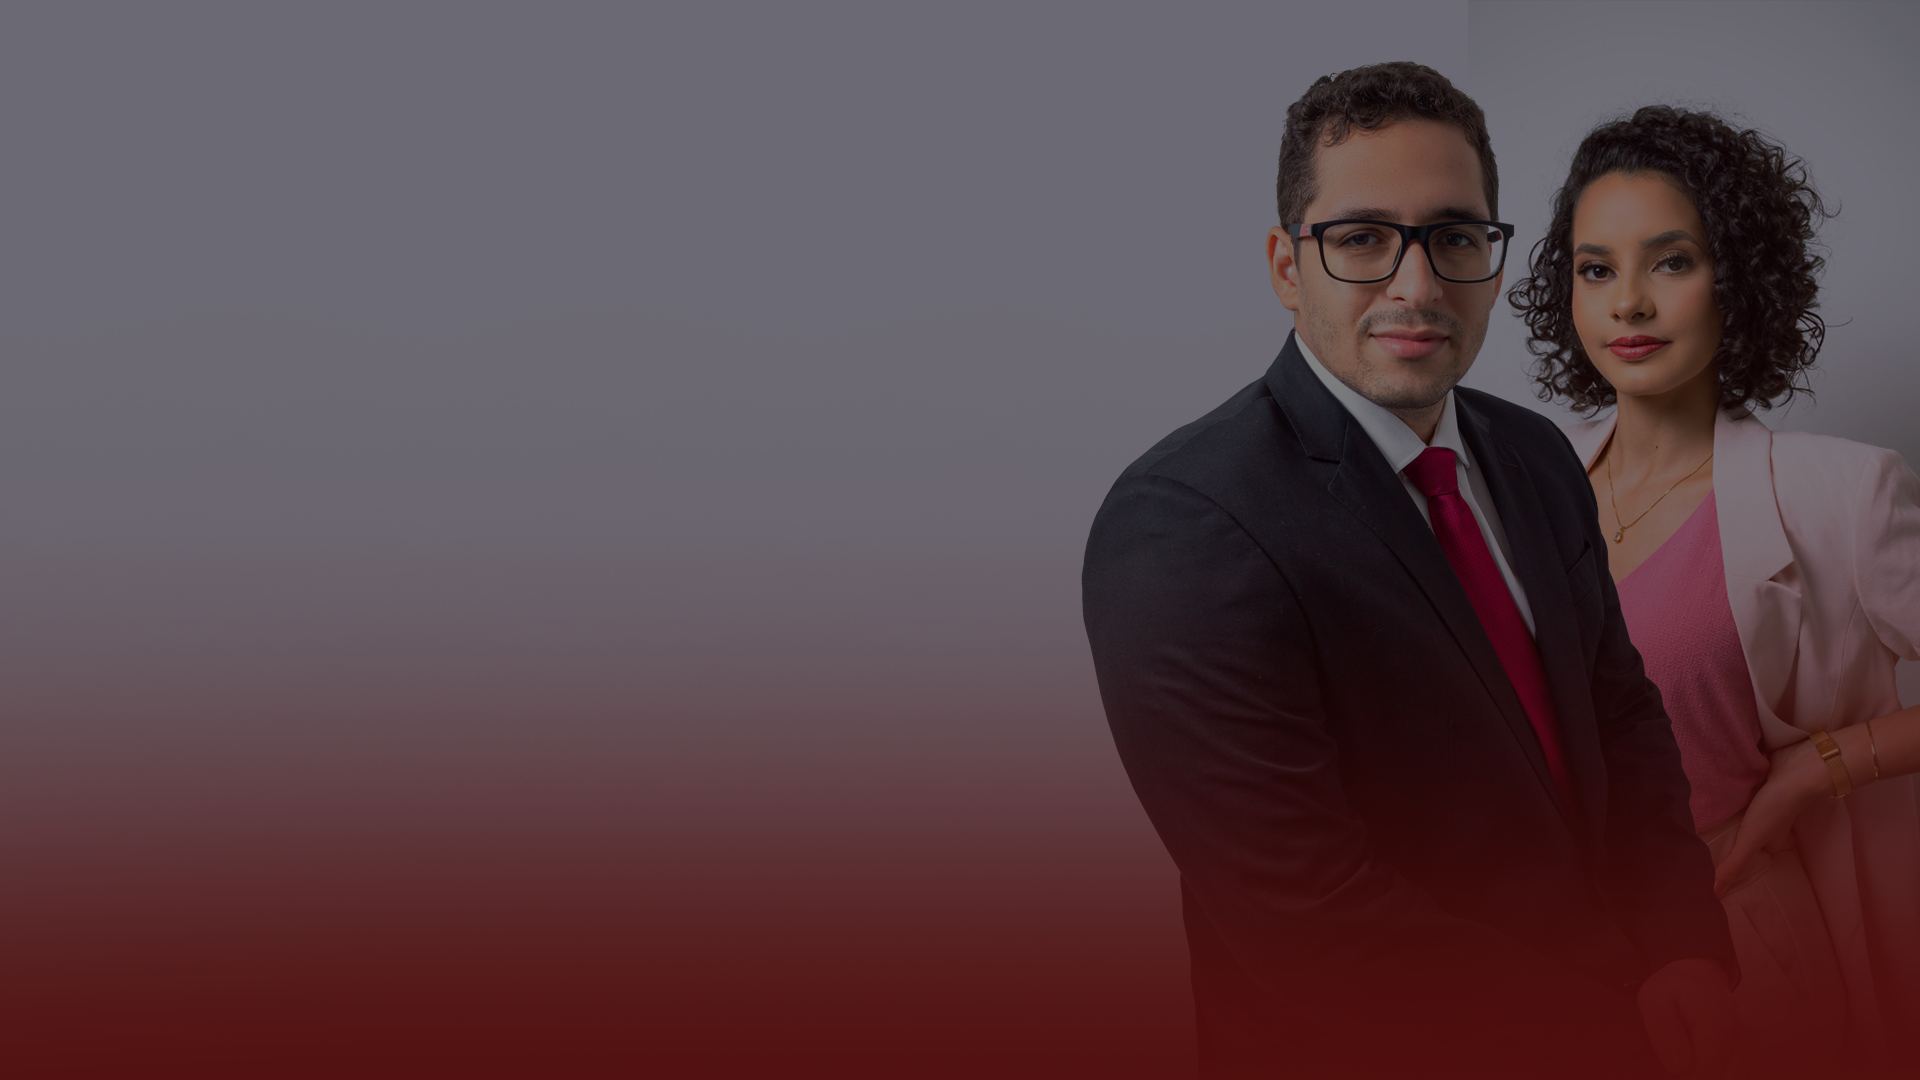
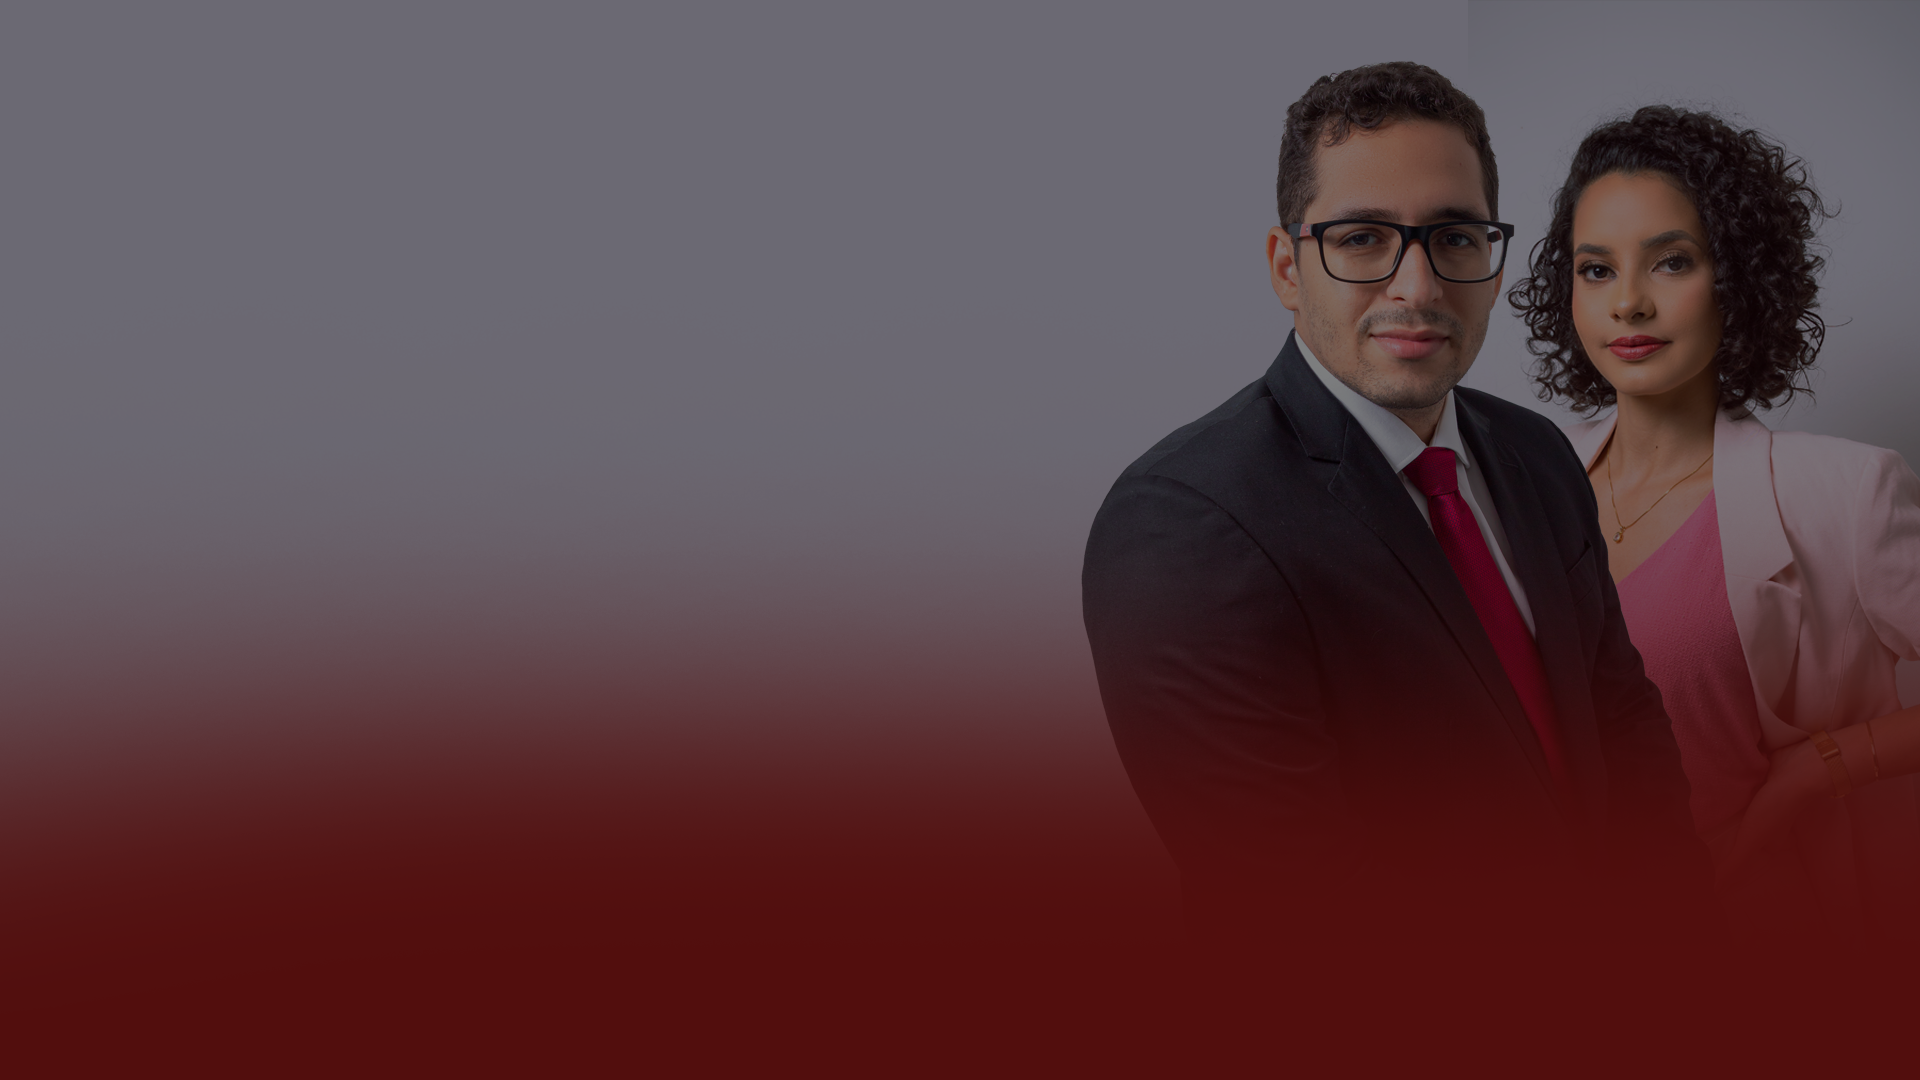
Hero section fix

Changed region(s): [[0.0, 0.6417, 0.625, 0.8556], [0.625, 0.6722, 0.875, 0.825]]

diff --git a/src/views/AvisoPrevioPlanoDeSaude/index.tsx b/src/views/AvisoPrevioPlanoDeSaude/index.tsx
@@ -1,10 +1,4 @@
-import {
-  Heading,
-  Text,
-  Button,
-  UnorderedList,
-  ListItem,
-} from '@chakra-ui/react';
+import { Heading, Text, Button } from '@chakra-ui/react';
 import WhatsAppButton from '../../components/WhasAppButton';
 
 import logoVW from '../../assets/logoVW.png';
@@ -24,32 +18,7 @@ const index = () => {
         </Text>
         <Button size='lg'>Não quero pagar 92% a mais</Button>
       </article>
-      <article className='more-details'>
-        <section className='text-box'>
-          <Heading as='h3'>Entenda melhor o que está acontecendo</Heading>
-          <Text as='p'>
-            Se o beneficiário pediu para cancelar o plano, eles estão cobrando o
-            chamado aviso prévio que é o período cobrado pelos planos de saúde
-            após o pedido de cancelamento do contrato.
-          </Text>
-          <Text as='p'>
-            Se o beneficiário teve seu plano de saúde cancelado por
-            inadimplência, a justificativa é diferente. Após 60 dias de
-            inadimplemento, por lei, a operadora de plano de saúde pode
-            suspender a cobertura, porém, suspendem antes disso.
-          </Text>
-          <UnorderedList>
-            <ListItem>
-              Você pede o cancelamento 🡪 O plano de saúde suspende a cobertura 🡪
-              porém a cobrança permanece por mais 60 dias.
-            </ListItem>
-            <ListItem>
-              Você para de pagar 🡪 x dias depois o plano suspende a cobertura 🡪
-              porém a cobrança permanece até completar os 60 dias.
-            </ListItem>
-          </UnorderedList>
-        </section>
-      </article>
+      <article className='more-details'></article>
     </main>
   );
 };

diff --git a/src/views/AvisoPrevioPlanoDeSaude/style.scss b/src/views/AvisoPrevioPlanoDeSaude/style.scss
@@ -18,10 +18,19 @@
     padding: rem(16px) 5vw;
     justify-content: center;
     gap: rem(16px);
-    background-image: url('../../assets/hero-section-saude.png');
     background-size: cover;
     background-position: right;
     color: #fff;
+
+    @media (min-width: 768px) {
+      // background-image: url('../../assets/hero-section-saude.png');
+      background-color: blue;
+    }
+
+    @media (max-width: 767px) {
+      // background-image: url('../../assets/hero-section-saude.png');
+      background-color: red;
+    }
 
     img {
       width: 15%;
@@ -46,24 +55,8 @@
   }
 
   .more-details {
-    background-image: url('../../assets/bg-office.png');
-    background-size: cover;
-    background-position: center;
+    background-color: $nuneslisboa-red;
     display: flex;
     justify-content: center;
-
-    .text-box {
-      padding: rem(16px) 5vw;
-      display: flex;
-      flex-direction: column;
-      background-color: #fff;
-      width: 100vw;
-
-      h3 {
-        color: $nuneslisboa-red;
-        align-self: center;
-        margin-bottom: rem(32px);
-      }
-    }
   }
 }

diff --git a/src/styles/_variables.scss b/src/styles/_variables.scss
@@ -1,5 +1,5 @@
 $udev-blue: #5b9bd5;
-$nuneslisboa-red: #581817;
+$nuneslisboa-red: #520e0d;
 $light-background: #fff;
 
 $light-text: #333;
